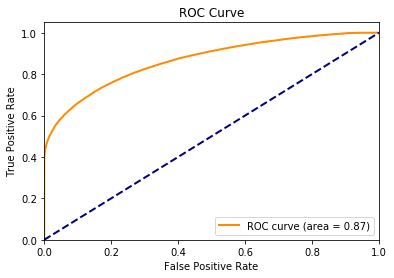
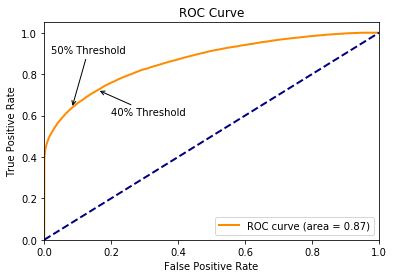
Added threshold labels to roc curve

diff --git a/EDA/EDA.py b/EDA/EDA.py
@@ -80,7 +80,7 @@ def plot_confusion_matrix(cm):
     plt.show()
 
 
-def plot_roc_curve(fpr, tpr, auc):
+def plot_roc_curve(fpr, tpr, thresholds, auc):
     """
     Plot ROC curve - stolen from sklearn's example
     """
@@ -90,6 +90,10 @@ def plot_roc_curve(fpr, tpr, auc):
     plt.ylim([0.0, 1.05])
     plt.xlabel('False Positive Rate')
     plt.ylabel('True Positive Rate')
+    i1 = np.abs(thresholds - 0.5).argmin()
+    i2 = np.abs(thresholds - 0.4).argmin()
+    plt.annotate("50% Threshold", xy=(fpr[i1], tpr[i1]), xytext=(0.02, 0.9), arrowprops={"arrowstyle": "->"})
+    plt.annotate("40% Threshold", xy=(fpr[i2], tpr[i2]), xytext=(0.2, 0.6), arrowprops={"arrowstyle": "->"})
     plt.title('ROC Curve')
     plt.legend(loc="lower right")
     plt.show()

diff --git a/README.md b/README.md
@@ -79,6 +79,10 @@ basing their projections on historical data.
 
 ![Confusion Matrix 2](/images/confusion_matrix2.png)<br>**Figure 2**
 
+<br>
+
+![Roc Curve](/images/roc_curve.png)<br>**Figure 3**
+
 &nbsp;
 
 
@@ -99,7 +103,7 @@ based off of the various cancellation reasons.
 
 &nbsp;
 
-![Feature Importances](/images/feature_importances.png)<br>**Figure 3**
+![Feature Importances](/images/feature_importances.png)<br>**Figure 4**
 
 &nbsp;
 
